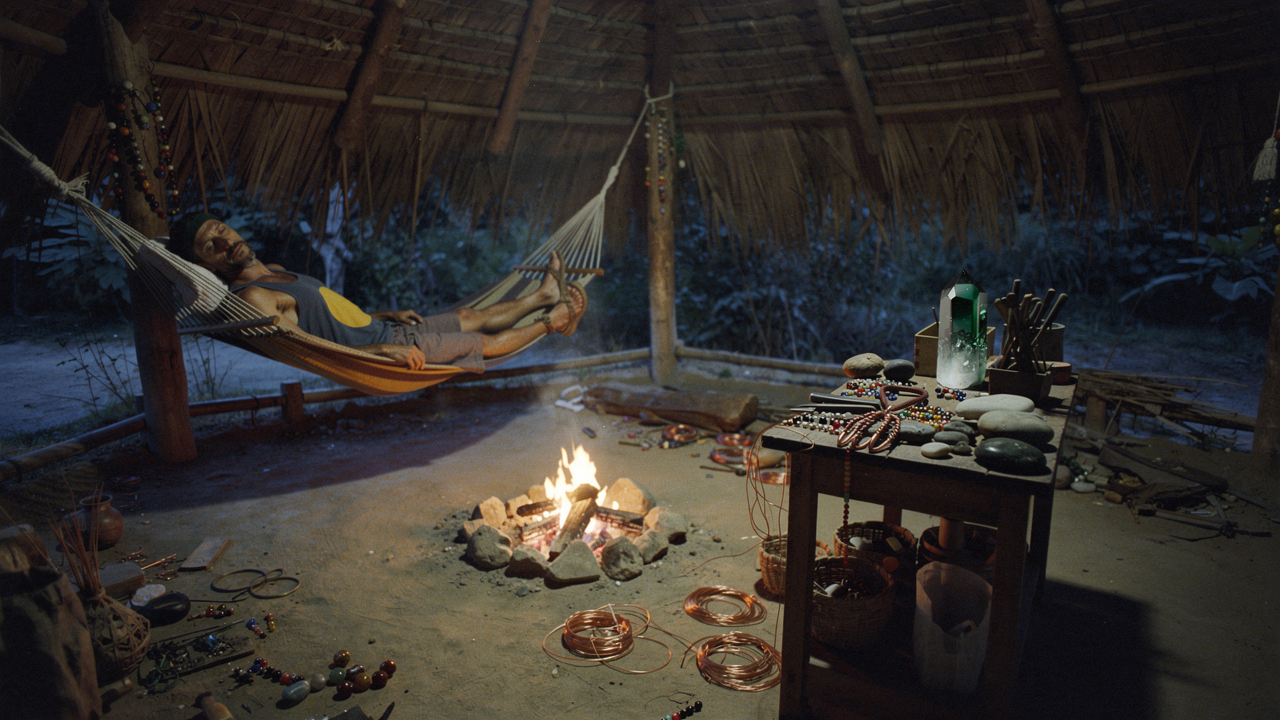
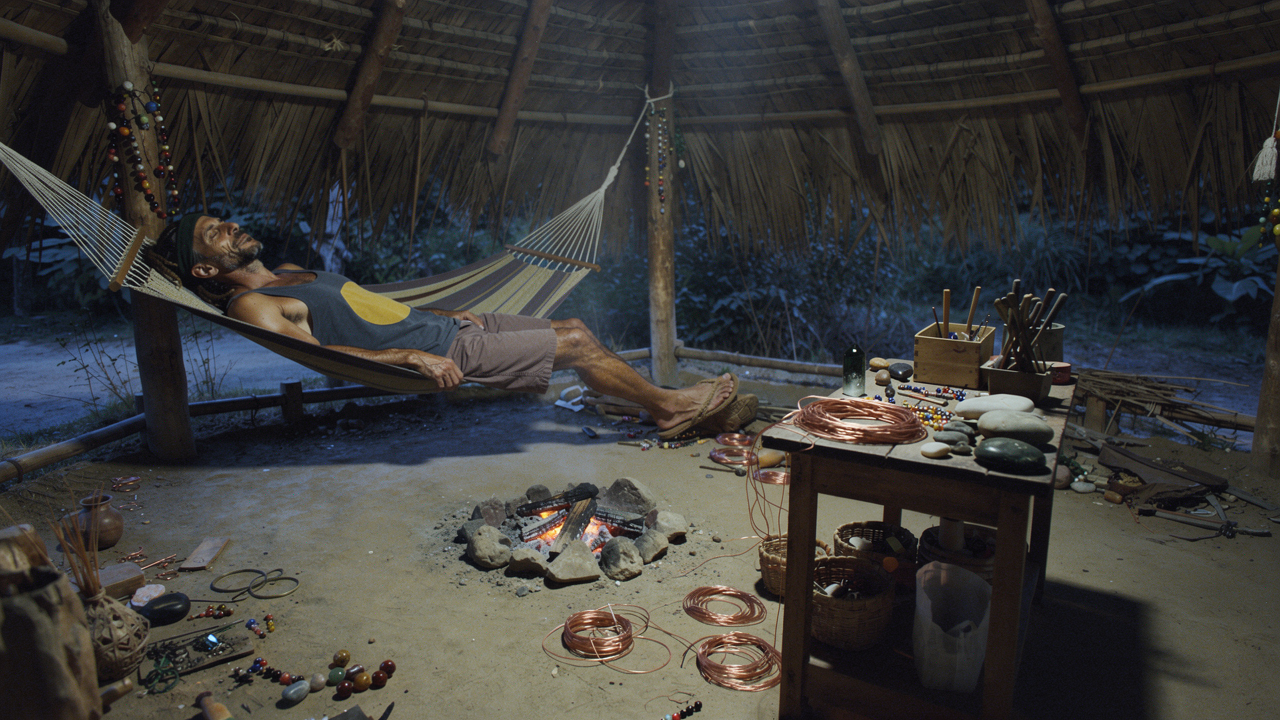
M5: s11 edit with the finished pendant from s10 as image 2
Round 3 of s11 pasted the necklace reference in at product-shot size or left
the crystal loose. s10's pick is the first image of the finished necklace,
so its crop becomes a reference: the edit swaps candidate 1's loose crystal
for it at the crystal's size and puts the fire out, in one pass.
Shots get edit_refs (extra images for an edit), checked by validate.

diff --git a/tests/test_pricing_and_client.py b/tests/test_pricing_and_client.py
@@ -166,17 +166,21 @@ def test_fingerprint_ignores_seed_but_not_prompt_or_refs(bible, tmp_path):
     assert fingerprint(a.endpoint, a.payload, [relocked, *a.refs[1:]]) != fingerprint(a.endpoint, a.payload, a.refs)
 
 
-def test_edit_request_sends_only_the_frame_and_the_change(bible):
+def test_edit_request_sends_the_frame_then_its_extra_images(bible):
     from fluxpipe.config import ROOT
     from fluxpipe.generate import EDIT_KEEP, edit_request
 
+    shot = bible.shot("s11")
     frame = ROOT / "results" / "keyframes" / "s02.png"  # any committed 1280x720 frame
-    req = edit_request(bible.shot("s11"), frame, seed=7)
+    extra = [bible.ref_path(r) for r in shot.edit_refs]
+    req = edit_request(shot, frame, seed=7, extra=extra)
     p = req.payload
-    assert p["prompt"].startswith("The fire in the fire pit has burnt out") and p["prompt"].endswith(EDIT_KEEP)
-    assert "input_image" in p and "input_image_2" not in p  # the frame is image 1, nothing else
+    assert p["prompt"].startswith("Replace the small green crystal") and p["prompt"].endswith(EDIT_KEEP)
+    assert "image 2" in p["prompt"]
+    assert req.refs == [str(frame), *map(str, extra)]  # the frame is always image 1
+    assert "input_image_2" in p and "input_image_3" not in p
     assert (p["width"], p["height"], p["seed"]) == (1280, 720, 7)  # size sent explicitly
-    assert req.est_cost_usd > 0.03  # output plus one input image
+    assert req.est_cost_usd > edit_request(shot, frame, seed=7).est_cost_usd  # each image is billed
 
 
 def test_edit_needs_an_edit_in_the_bible(bible):

diff --git a/src/fluxpipe/generate.py b/src/fluxpipe/generate.py
@@ -112,10 +112,11 @@ EDIT_KEEP = "Keep everything else exactly as it is in image 1."
 
 
 def edit_request(
-    shot: Shot, source: Path, *, seed: int, model: str = "flux-2-pro",
+    shot: Shot, source: Path, *, seed: int, extra: list[Path] = (), model: str = "flux-2-pro",
     width: int = DEFAULT_SIZE[0], height: int = DEFAULT_SIZE[1],
 ) -> Request:
     """Edit a finished keyframe: the frame is image 1, the prompt says only what changes.
+    `extra` (the shot's edit_refs) are attached after it as image 2, 3..., for the prompt to name.
 
     Same endpoint as generation; passing input_image is what makes it an edit (docs.bfl.ai, FLUX.2
     image editing). Size is sent explicitly: the docs don't say what an edit returns without it.
@@ -123,7 +124,8 @@ def edit_request(
     if not shot.edit:
         raise ValueError(f"{shot.id} has no `edit` in shots.yaml")
     prompt = f"{shot.edit.strip()} {EDIT_KEEP}"
-    return build_request(model, prompt, width=width, height=height, seed=seed, ref_files=[source])
+    return build_request(model, prompt, width=width, height=height, seed=seed,
+                         ref_files=[source, *extra])
 
 
 BASELINE_MODEL = "flux-2-pro"  # same model as the keyframes, or the comparison isn't fair

diff --git a/src/fluxpipe/bible.py b/src/fluxpipe/bible.py
@@ -84,6 +84,8 @@ class Shot(Strict):
     # A fix applied to the picked keyframe with FLUX.2 editing (`fluxpipe edit`), for what a reference
     # won't let the words change (s11: the plate's fire stays lit). Describe only the change.
     edit: str | None = None
+    # Extra images for the edit, attached after the frame (image 2, 3...). Paths relative to the bible.
+    edit_refs: list[str] = Field(default_factory=list)
 
 
 class Baseline(Strict):
@@ -168,6 +170,8 @@ class Bible(Strict):
                 yield from ((char.id, r) for r in refs)
         for item in [*self.locations.values(), *self.props.values()]:
             yield from ((item.id, r) for r in item.reference_images)
+        for shot in self.shots:
+            yield from ((shot.id, r) for r in shot.edit_refs)
 
 
 def _load_dir(folder: Path, model: type[BaseModel]) -> dict:

diff --git a/tests/test_bible_and_prompts.py b/tests/test_bible_and_prompts.py
@@ -108,3 +108,8 @@ def test_hut_is_described_the_same_inside_and_out(bible):
     hut = "a small round hut with a steep conical thatched roof on a ring of wooden posts"
     assert hut in bible.locations["thatched_hut"].description
     assert hut in bible.locations["jungle_path"].description
+
+
+def test_missing_edit_ref_is_caught(bible):
+    bible.shot("s11").edit_refs.append("refs/nope/missing.png")
+    assert "s11: reference image not found: refs/nope/missing.png" in bible.problems()

diff --git a/src/fluxpipe/cli.py b/src/fluxpipe/cli.py
@@ -293,7 +293,8 @@ def edit(
     source = settings.assets_dir / "keyframes" / shot / base
     seeds = [(shot_seed(shot) + 1000 + i) % 2**32 for i in range(n)]
     try:
-        reqs = [edit_request(s, source, seed=seed) for seed in seeds]
+        extra = [bible.ref_path(r) for r in s.edit_refs]
+        reqs = [edit_request(s, source, seed=seed, extra=extra) for seed in seeds]
     except ValueError as exc:
         typer.secho(f"  x {exc}", fg="red")
         raise typer.Exit(2)

diff --git a/tests/test_refs.py b/tests/test_refs.py
@@ -44,6 +44,11 @@ def bible_dir(tmp_path):
             data.pop("costume_references", None)
             with f.open("w") as out:
                 yaml.dump(data, out)
+    shots = yaml.load((d / "shots.yaml").read_text())
+    for shot in shots["shots"]:
+        shot.pop("edit_refs", None)  # these point into refs/ too
+    with (d / "shots.yaml").open("w") as out:
+        yaml.dump(shots, out)
     return d
 
 
